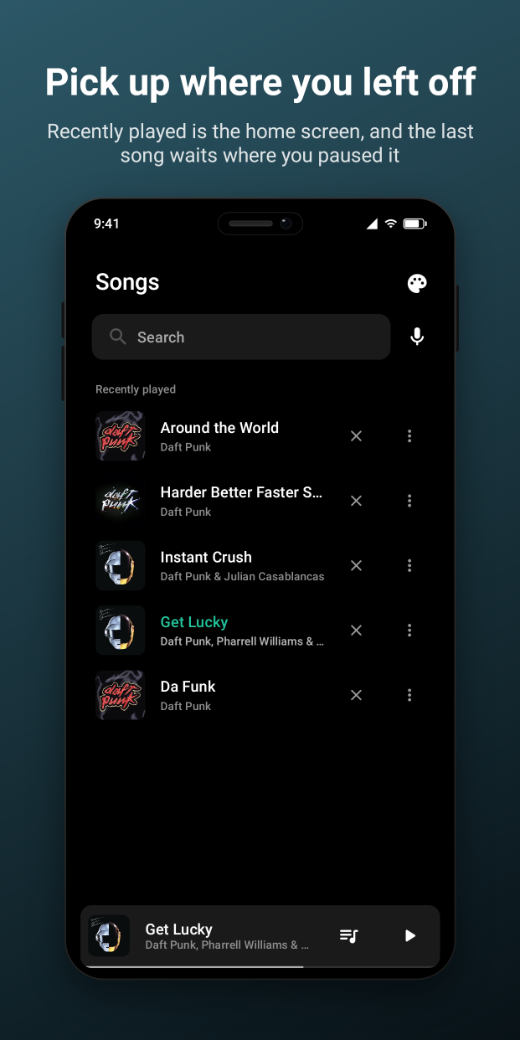
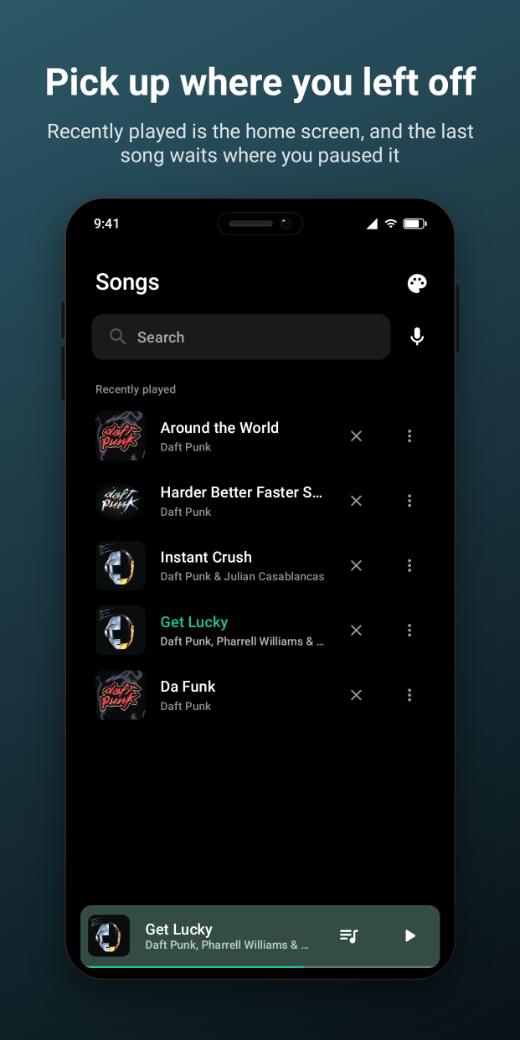
enhancement: give the mini player the accent's container and progress

Changed region(s): [[0.1538, 0.8615, 0.8615, 0.9538]]

diff --git a/feature/mini_player/src/main/kotlin/com/pierre/tunescout/feature/miniplayer/presentation/content/MiniPlayerContent.kt b/feature/mini_player/src/main/kotlin/com/pierre/tunescout/feature/miniplayer/presentation/content/MiniPlayerContent.kt
@@ -51,6 +51,10 @@ private val buttonSize = 48.dp
 private val iconSize = 24.dp
 private val progressHeight = 2.dp
 
+/**
+ * The bar sits on the accent's container rather than on a neutral surface, so the song playing
+ * stands out from the list above it, and its progress is drawn in the accent itself.
+ */
 @Composable
 fun MiniPlayerContent(
     song: Song,
@@ -67,7 +71,7 @@ fun MiniPlayerContent(
                 .fillMaxWidth()
                 .padding(horizontal = TuneScoutSpacing.small, vertical = TuneScoutSpacing.extraSmall)
                 .clip(RoundedCornerShape(cardCornerRadius))
-                .background(TuneScoutColors.surfaceSubtle)
+                .background(TuneScoutColors.accentContainer)
                 .clickable(onClickLabel = openLabel) {
                     tappedSurface.surface = SharedArtworkSurface.MINI_PLAYER
                     onEvent(MiniPlayerUiEvent.OnClicked)
@@ -101,7 +105,7 @@ fun MiniPlayerContent(
                     Text(
                         text = song.artistName,
                         style = MaterialTheme.typography.bodySmall,
-                        color = TuneScoutColors.textSecondary,
+                        color = TuneScoutColors.textEmphasis,
                         maxLines = 1,
                         overflow = TextOverflow.Ellipsis,
                         modifier = Modifier.sharedTextBounds(
@@ -140,8 +144,8 @@ fun MiniPlayerContent(
 @Composable
 private fun ProgressLine(progress: Float) {
     val animated by animateFloatAsState(targetValue = progress, label = "miniPlayerProgress")
-    val trackColor = TuneScoutColors.surfaceSubtle
-    val playedColor = TuneScoutColors.trackActive
+    val trackColor = TuneScoutColors.elementSubtle
+    val playedColor = TuneScoutColors.accent
     Box(
         modifier = Modifier
             .fillMaxWidth()

diff --git a/ui/theme/src/test/kotlin/com/pierre/tunescout/ui/theme/TuneScoutPalettesContrastTest.kt b/ui/theme/src/test/kotlin/com/pierre/tunescout/ui/theme/TuneScoutPalettesContrastTest.kt
@@ -32,9 +32,10 @@ class TuneScoutPalettesContrastTest {
 
     /**
      * Muted text and the accent of a playing song's title sit on the background, on a sheet and on
-     * a subtle surface over the background (the mini player, the notice bar). The error colour
-     * labels a dialog's confirm button, on a sheet. A placeholder is only ever inside a field, which
-     * is a subtle surface over the background or over a sheet.
+     * a subtle surface over the background (the notice bar). The error colour labels a dialog's
+     * confirm button, on a sheet. A placeholder is only ever inside a field, which is a subtle
+     * surface over the background or over a sheet. The mini player draws its song's title and
+     * artist on the accent's container.
      *
      * @return the contrast of each of those pairs, by a name that says which one failed.
      */
@@ -53,6 +54,8 @@ class TuneScoutPalettesContrastTest {
             ("accent" to accent) to everywhere,
             ("error" to error) to mapOf("background" to background, "sheet" to sheet),
             ("textPlaceholder" to textPlaceholder) to fields,
+            ("textPrimary" to textPrimary) to mapOf("accentContainer" to accentContainer),
+            ("textEmphasis" to textEmphasis) to mapOf("accentContainer" to accentContainer),
         )
         return surfacesByText
             .flatMap { (text, surfaces) ->

diff --git a/docs/architecture/accessibility.md b/docs/architecture/accessibility.md
@@ -18,7 +18,8 @@ Body text needs **4.5:1** against what it is drawn on, and an icon the user can 
 
 `TuneScoutPalettesContrastTest` measures each text token against every surface it is drawn on, in
 both palettes: `textSecondary`, `textTertiary` and the `accent` of a playing song's title on the
-background, a sheet and a subtle surface over the background; `error` on a sheet, where it labels a
+background, a sheet and a subtle surface over the background; `textPrimary` and `textEmphasis` on
+`accentContainer`, where the mini player draws its song; `error` on a sheet, where it labels a
 dialog's confirm button; `textPlaceholder` inside a field, on either. A new value that fails it is
 too light, however good it looks on one of them. Under dynamic colour `textSecondary` is
 `onSurfaceVariant`, which Material builds for text; `outline` is built for 3:1 and only feeds
